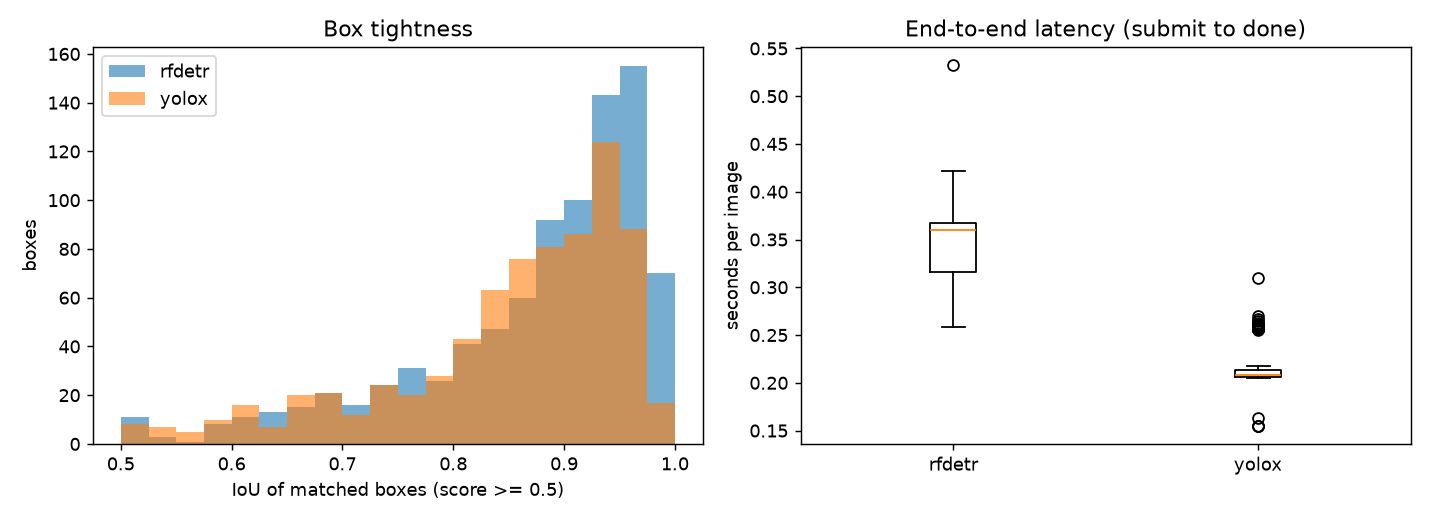
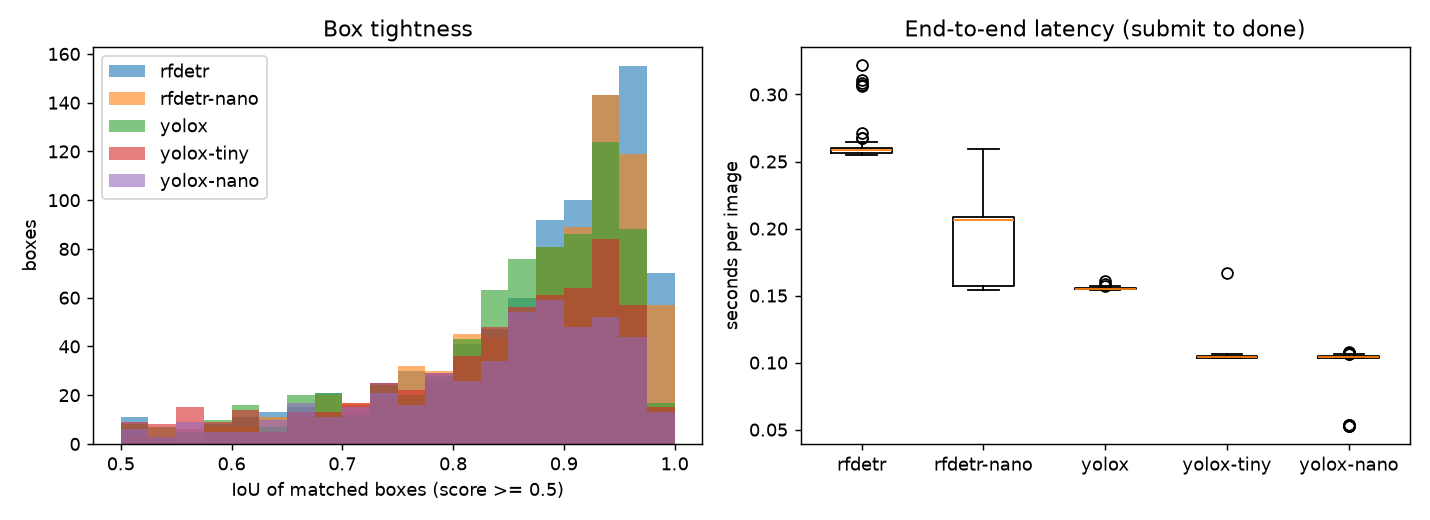
L2: YOLOX-nano/tiny and RF-DETR Nano backends (#19)
* L2: YOLOX-nano/tiny and RF-DETR Nano backends, COCO-200 rows

Claude-Session: https://claude.ai/code/session_01Xkm7aLAijmSFtDHZcGB5nX

* Fix line length

Claude-Session: https://claude.ai/code/session_01Xkm7aLAijmSFtDHZcGB5nX

diff --git a/stages/detector/yolox_onnx.py b/stages/detector/yolox_onnx.py
@@ -1,11 +1,11 @@
 """YOLOX (Apache-2.0) through ONNX Runtime: no torch and no `yolox` package at inference.
 
 Pre- and post-processing follow the reference demo in the YOLOX repository: letterbox to
-640x640 with grey padding, BGR input in 0-255, grid decode of the raw head, then
-class-wise NMS.
+the model's input size (640 for -s, 416 for nano and tiny) with grey padding, BGR input in
+0-255, grid decode of the raw head, then class-wise NMS.
 """
 
-import os
+from functools import cache
 
 import numpy as np
 from backends import resolve_device, thread_count
@@ -42,6 +42,17 @@ def letterbox(img: np.ndarray, size=SIZE) -> tuple[np.ndarray, float]:
     return np.ascontiguousarray(chw, dtype=np.float32)[None], ratio
 
 
+@cache
+def _grid(size: tuple[int, int]) -> tuple[np.ndarray, np.ndarray]:
+    grids, strides = [], []
+    for s in STRIDES:
+        gh, gw = size[0] // s, size[1] // s
+        xv, yv = np.meshgrid(np.arange(gw), np.arange(gh))
+        grids.append(np.stack((xv, yv), 2).reshape(-1, 2))
+        strides.append(np.full((gh * gw, 1), s))
+    return np.concatenate(grids), np.concatenate(strides)
+
+
 def decode(raw: np.ndarray, size=SIZE) -> tuple[np.ndarray, np.ndarray]:
     """Raw head output (1, N, 85) -> xyxy boxes in letterboxed pixels and (N, 80) scores.
 
@@ -49,22 +60,16 @@ def decode(raw: np.ndarray, size=SIZE) -> tuple[np.ndarray, np.ndarray]:
     and class probabilities are already sigmoid-ed.
     """
     out = raw[0]
-    grids, strides = [], []
-    for s in STRIDES:
-        gh, gw = size[0] // s, size[1] // s
-        xv, yv = np.meshgrid(np.arange(gw), np.arange(gh))
-        grids.append(np.stack((xv, yv), 2).reshape(-1, 2))
-        strides.append(np.full((gh * gw, 1), s))
-    grid, stride = np.concatenate(grids), np.concatenate(strides)
+    grid, stride = _grid(tuple(size))
     xy = (out[:, :2] + grid) * stride
     wh = np.exp(out[:, 2:4]) * stride
     return np.concatenate([xy - wh / 2, xy + wh / 2], axis=1), out[:, 4:5] * out[:, 5:]
 
 
 def yolox_boxes(raw: np.ndarray, ratio: float, shape: tuple[int, int], conf: float,
-                nms_iou: float = NMS_IOU, names: list[str] = COCO80) -> list[Box]:
+                nms_iou: float = NMS_IOU, names: list[str] = COCO80, size=SIZE) -> list[Box]:
     """Decode, threshold on the best class, undo the letterbox scale, clip, and NMS per class."""
-    boxes, scores = decode(raw)
+    boxes, scores = decode(raw, size)
     cls = scores.argmax(1)
     best = scores[np.arange(len(scores)), cls]
     keep = best >= conf
@@ -82,7 +87,7 @@ def yolox_boxes(raw: np.ndarray, ratio: float, shape: tuple[int, int], conf: flo
     return result
 
 
-def load_yolox(device: str = "cpu", path: str | None = None, names: list[str] = COCO80):
+def load_yolox(device: str, path: str, names: list[str] = COCO80):
     import onnxruntime as ort  # only when this backend is enabled
 
     if device == "cuda":
@@ -92,14 +97,15 @@ def load_yolox(device: str = "cpu", path: str | None = None, names: list[str] = 
         providers.insert(0, "CUDAExecutionProvider")
     opts = ort.SessionOptions()
     opts.intra_op_num_threads = thread_count()
-    session = ort.InferenceSession(path or os.environ.get("YOLOX_ONNX", "/models/yolox_s.onnx"),
-                                   opts, providers=providers)
+    session = ort.InferenceSession(path, opts, providers=providers)
     if device == "cuda" and session.get_providers()[0] != "CUDAExecutionProvider":
         raise SystemExit("onnxruntime could not load its CUDA provider (missing CUDA libraries?)")
-    name = session.get_inputs()[0].name
+    inp = session.get_inputs()[0]
+    size = (inp.shape[2], inp.shape[3])  # static in every export we use
 
     def detect(img: np.ndarray, conf: float) -> list[Box]:
-        x, ratio = letterbox(img)
-        return yolox_boxes(session.run(None, {name: x})[0], ratio, img.shape[:2], conf, names=names)
+        x, ratio = letterbox(img, size)
+        return yolox_boxes(session.run(None, {inp.name: x})[0], ratio, img.shape[:2], conf,
+                           names=names, size=size)
 
     return detect

diff --git a/stages/detector/backends.py b/stages/detector/backends.py
@@ -47,20 +47,21 @@ def to_boxes(det) -> list[Box]:
             in zip(det.xyxy, det.confidence, det.class_id, det.data["class_name"], strict=True)]
 
 
-def load_rfdetr(device: str, weights: str | None = None) -> Backend:
+def load_rfdetr(device: str, weights: str | None = None, size: str = "Small") -> Backend:
+    import rfdetr  # heavy import, only when this backend is enabled
     import torch
-    from rfdetr import RFDETRSmall  # heavy import, only when this backend is enabled
 
     torch.set_num_threads(thread_count())
-    model = RFDETRSmall(device=resolve_device(device, torch.cuda.is_available()),
-                        **({"pretrain_weights": weights} if weights else {}))
+    model = getattr(rfdetr, f"RFDETR{size}")(
+        device=resolve_device(device, torch.cuda.is_available()),
+        **({"pretrain_weights": weights} if weights else {}))
     return lambda img, conf: to_boxes(model.predict(img, threshold=conf))
 
 
-def load_yolox_backend(device: str) -> Backend:
+def load_yolox_backend(device: str, variant: str = "s") -> Backend:
     from yolox_onnx import load_yolox
 
-    return load_yolox(device)
+    return load_yolox(device, f"/models/yolox_{variant}.onnx")
 
 
 def load_yolox_buildings(device: str) -> Backend:
@@ -81,4 +82,7 @@ def load_rfdetr_buildings(device: str) -> Backend:
 # when enabled.
 BACKENDS: dict[str, Callable[[str], Backend]] = {
     "stub": lambda device: stub_detect, "rfdetr": load_rfdetr, "yolox": load_yolox_backend,
+    "rfdetr-nano": lambda device: load_rfdetr(device, size="Nano"),
+    "yolox-nano": lambda device: load_yolox_backend(device, "nano"),
+    "yolox-tiny": lambda device: load_yolox_backend(device, "tiny"),
     "rfdetr-buildings": load_rfdetr_buildings, "yolox-buildings": load_yolox_buildings}

diff --git a/tests/unit/test_yolox.py b/tests/unit/test_yolox.py
@@ -74,3 +74,16 @@ def test_single_class_head_uses_the_given_names():
     raw[0, 20 * 80 + 10] = (0.5, 0.5, np.log(5), np.log(5), 0.9, 0.8)
     [box] = yolox_boxes(raw, ratio=1.0, shape=(640, 640), conf=0.25, names=["building"])
     assert (box.class_id, box.class_name) == (0, "building")
+
+
+def test_nano_size_416_has_3549_anchors_and_decodes_from_its_own_grid():
+    # 52*52 + 26*26 + 13*13 anchors; anchor 10 is cell (x=10, y=0) at stride 8
+    raw = np.zeros((1, 3549, 85), np.float32)
+    raw[0, 10, :6] = (0.5, 0.5, np.log(5), np.log(5), 0.9, 0.9)  # class 0 (person)
+    [box] = yolox_boxes(raw, ratio=1.0, shape=(416, 416), conf=0.25, size=(416, 416))
+    assert (box.x1, box.y1, box.x2, box.y2) == pytest.approx((64.0, 0.0, 104.0, 24.0), abs=1e-3)
+
+
+def test_letterbox_pads_to_the_requested_size():
+    x, ratio = letterbox(np.zeros((640, 640, 3), np.uint8), (416, 416))
+    assert x.shape == (1, 3, 416, 416) and ratio == 0.65

diff --git a/stages/detector/main.py b/stages/detector/main.py
@@ -32,7 +32,8 @@ def detect_tile(r, s3, backends: dict[str, Backend], tile: Tile) -> None:
 
 if __name__ == "__main__":
     logging.basicConfig(level=logging.INFO)
-    names = os.environ.get("DETECTOR_MODELS", "stub,rfdetr,yolox").split(",")
+    default = "stub,rfdetr,yolox,yolox-tiny,yolox-nano,rfdetr-nano"
+    names = os.environ.get("DETECTOR_MODELS", default).split(",")
     unknown = [n for n in names if n not in BACKENDS]
     if unknown:
         raise SystemExit(f"unknown DETECTOR_MODELS {unknown}; available: {sorted(BACKENDS)}")

diff --git a/tests/stack/test_stack.py b/tests/stack/test_stack.py
@@ -61,7 +61,7 @@ def test_round_trip_boxes_land_on_the_drawn_rectangles(stack):
             f.write(body)
 
 
-@pytest.mark.parametrize("model", ["rfdetr", "yolox"])
+@pytest.mark.parametrize("model", ["rfdetr", "yolox", "yolox-tiny", "yolox-nano", "rfdetr-nano"])
 def test_each_model_finds_both_cats_in_a_real_photo(stack, model):
     r, s3, _ = stack
     key = upload_photo_tif(s3)

diff --git a/docs/benchmarks/coco-val-200.md b/docs/benchmarks/coco-val-200.md
@@ -1,4 +1,4 @@
-# COCO val2017, 200 images: RF-DETR Small vs YOLOX-s
+# COCO val2017, 200 images: RF-DETR, YOLOX and their lightweight variants
 
 Run on 2026-11-14 with `make bench-coco` on a laptop (i9-12900H, CPU inference only, no GPU), through the
 full pipeline: GeoTIFF upload, S3, queue, slicer, detector, postprocess. Each image is one 640-pixel tile,
@@ -7,16 +7,28 @@ non-crowd annotation. COCO images are not stored in this repository (see ADR-001
 
 | model | mAP@[.5:.95] | mAP@.5 | AR@100 | P@.5 | R@.5 | F1@.5 | median latency s/img | mean detect s/img | detections |
 |---|---|---|---|---|---|---|---|---|---|
-| RF-DETR Small | 0.566 | 0.750 | 0.697 | 0.877 | 0.615 | 0.723 | 0.36 | 0.21 | 15764 |
-| YOLOX-s | 0.440 | 0.618 | 0.546 | 0.822 | 0.524 | 0.640 | 0.21 | 0.08 | 3671 |
+| RF-DETR Small | 0.566 | 0.750 | 0.697 | 0.877 | 0.615 | 0.723 | 0.26 | 0.18 | 15761 |
+| RF-DETR Nano | 0.534 | 0.713 | 0.649 | 0.880 | 0.551 | 0.677 | 0.21 | 0.10 | 18042 |
+| YOLOX-s | 0.440 | 0.618 | 0.546 | 0.822 | 0.524 | 0.640 | 0.16 | 0.07 | 3671 |
+| YOLOX-tiny | 0.348 | 0.510 | 0.446 | 0.821 | 0.416 | 0.552 | 0.10 | 0.02 | 3312 |
+| YOLOX-nano | 0.303 | 0.446 | 0.393 | 0.806 | 0.330 | 0.469 | 0.10 | 0.01 | 3536 |
+
+Re-run on 2026-11-14 after the lightweight models were added (ADR-0014, slice L2), with the L1 slicer
+(PNG level 0), so latencies are lower than the first run's (RF-DETR 0.36 to 0.26 s, YOLOX-s 0.21 to 0.16 s
+median). The other columns for the first two rows match the first run. These are COCO scores with zero-shot
+weights; the shipping decision is made on SpaceNet (slice L3).
 
 ![precision-recall](coco-val-200/pr_curves.png)
 ![box tightness and latency](coco-val-200/latency_iou.png)
 
 ## Reading it
 
-- RF-DETR is more accurate on every metric here (about +0.13 mAP@[.5:.95]); YOLOX-s is about 1.7x
-  faster per image end to end (0.21 s vs 0.36 s) and 2.6x faster in the model itself.
+- RF-DETR is more accurate than YOLOX-s on every metric here (about +0.13 mAP@[.5:.95]); YOLOX-s is
+  about 2.6x faster in the model itself (0.07 s vs 0.18 s).
+- RF-DETR Nano keeps most of RF-DETR Small's accuracy (0.534 vs 0.566 mAP@[.5:.95]) at 0.10 s/img in the
+  model, 1.8x faster, and beats YOLOX-s by 0.09. YOLOX-tiny and -nano are 3.5x and 7x faster in the model
+  than YOLOX-s but lose 0.09 and 0.14 mAP@[.5:.95], mostly through recall (0.42 and 0.33 against 0.52).
+  End-to-end latency flattens at about 0.10 s for those two: the rest is pipeline overhead.
 - RF-DETR's boxes are tighter: more matched boxes above 0.95 IoU.
 - Detections were collected at confidence >= 0.05, which mAP needs. RF-DETR returns far more
   low-confidence candidates (about 79 per image against 18), which is why its detection count is higher.

diff --git a/AGENTS.md b/AGENTS.md
@@ -2,7 +2,7 @@
 
 GeoTIFF in S3 → slicer → detector → postprocess → georeferenced GeoJSON, as three workers on Valkey Streams plus an S3-API object store (SeaweedFS), run with Docker Compose. It is meant to become a hosted service later, so contracts carry `tenant_id` and stay stateless.
 
-Build order and acceptance tests: `docs/SLICES.md` (its end-to-end lines are the acceptance criteria). Plan: `docs/PLAN.md`. Decisions: `docs/adr/`. Status: V1-V8 and V5b merged (V5 = YOLOX plus a COCO benchmark, V6 = HTTP API, V7 = GPU detector, V5b = SpaceNet fine-tunes, V8 = web UI on indah). Next: the lightweight CPU detector series (L1 done; L2-L5 remain) (`docs/SLICES.md`, ADR-0014); other open cards are Postgres job records, identity-provider sign-in. Work is tracked on the Pandan board `GEO` (`pandan board use GEO`); move cards as slices land. Trust the code over the docs where they disagree, and fix the doc.
+Build order and acceptance tests: `docs/SLICES.md` (its end-to-end lines are the acceptance criteria). Plan: `docs/PLAN.md`. Decisions: `docs/adr/`. Status: V1-V8 and V5b merged (V5 = YOLOX plus a COCO benchmark, V6 = HTTP API, V7 = GPU detector, V5b = SpaceNet fine-tunes, V8 = web UI on indah). Next: the lightweight CPU detector series (L1, L2 done; L3-L5 remain) (`docs/SLICES.md`, ADR-0014); other open cards are Postgres job records, identity-provider sign-in. Work is tracked on the Pandan board `GEO` (`pandan board use GEO`); move cards as slices land. Trust the code over the docs where they disagree, and fix the doc.
 
 ## Layout
 - `libs/geopipe/`: shared contracts and helpers; must install on 3.12 and 3.13. Only `raster.py`, `finalise.py`, `viz.py` and `bench.py` need GDAL, matplotlib or pycocotools (`viz` and `bench` extras); the detector must never import them.

diff --git a/README.md b/README.md
@@ -83,6 +83,8 @@ On a machine with an NVIDIA GPU and the NVIDIA container runtime, `make up-gpu` 
 
 CPU throughput: the detector uses `DETECTOR_THREADS` threads per worker (default 4; more was not faster on a 20-thread CPU), and `docker compose up -d --scale detector=2` runs replicas that share the tile stream. With a stub model on real imagery the pipeline went from 13.5 to 33.5 tiles/s with one detector and 48 with two, after the slicer started writing uncompressed PNG tiles and overlapping encode and upload ([ADR-0014](docs/adr/0014-lightweight-cpu-detector.md)). Do not scale the CPU and GPU detectors together.
 
+Lightweight models for CPU use: `yolox-tiny`, `yolox-nano` (ONNX Runtime, 416 px input) and `rfdetr-nano` are enabled by default beside `rfdetr` (the default choice) and `yolox`. On 200 COCO images, `rfdetr-nano` keeps most of RF-DETR Small's accuracy (mAP@.5 0.71 against 0.75) at about 1.8x the speed, while `yolox-tiny` and `yolox-nano` are 3.5x and 7x faster than `yolox` but lose 0.09 and 0.14 mAP@[.5:.95] ([report](docs/benchmarks/coco-val-200.md)). COCO is a sanity check only: which of them ship is decided on SpaceNet fine-tunes (slice L3 in [`docs/SLICES.md`](docs/SLICES.md)).
+
 Duplicates across overlapping tiles are removed by class-wise NMS. An object larger than the overlap zone can still be split. Boxes only (no oriented boxes or segmentation).
 
 ## Benchmark

diff --git a/docs/adr/0014-lightweight-cpu-detector.md b/docs/adr/0014-lightweight-cpu-detector.md
@@ -22,6 +22,10 @@ On CPU, YOLOX-s takes about 65 ms per tile and RF-DETR Small about 180 ms (forwa
 
 Stub model, real imagery, 48 tiles: 13.5 tiles/s before; 22.6 with PNG level 0 (slicer 43 ms/tile; encode 17, upload 12); 33.5 after encode and upload moved onto 4 threads (slicer 18 ms/tile); 48 with two detector replicas. GDAL reads stay on the slicer's main thread.
 
+## Measured after L2 (2026-11-14, COCO-200, zero-shot)
+
+mAP@[.5:.95] and model time per image: RF-DETR Small 0.566, 0.18 s; RF-DETR Nano 0.534, 0.10 s; YOLOX-s 0.440, 0.07 s; YOLOX-tiny 0.348, 0.02 s; YOLOX-nano 0.303, 0.01 s. All five are registered; slice L3 applies the bar on SpaceNet and removes those that miss it. The YOLOX backend reads its input size from the ONNX model.
+
 ## Excluded
 
 | Candidate | Why |

diff --git a/docs/SLICES.md b/docs/SLICES.md
@@ -288,7 +288,7 @@ An interactive dashboard is out of scope here. indah (the owner's reactive UI fr
 #### Unit
 - `DETECTOR_THREADS` reaches the session options; an invalid value fails at startup.
 
-## L2: Nano, tiny and RF-DETR Nano backends
+## L2: Nano, tiny and RF-DETR Nano backends (done)
 
 **Delivers:** the candidate models, selectable per job
 
